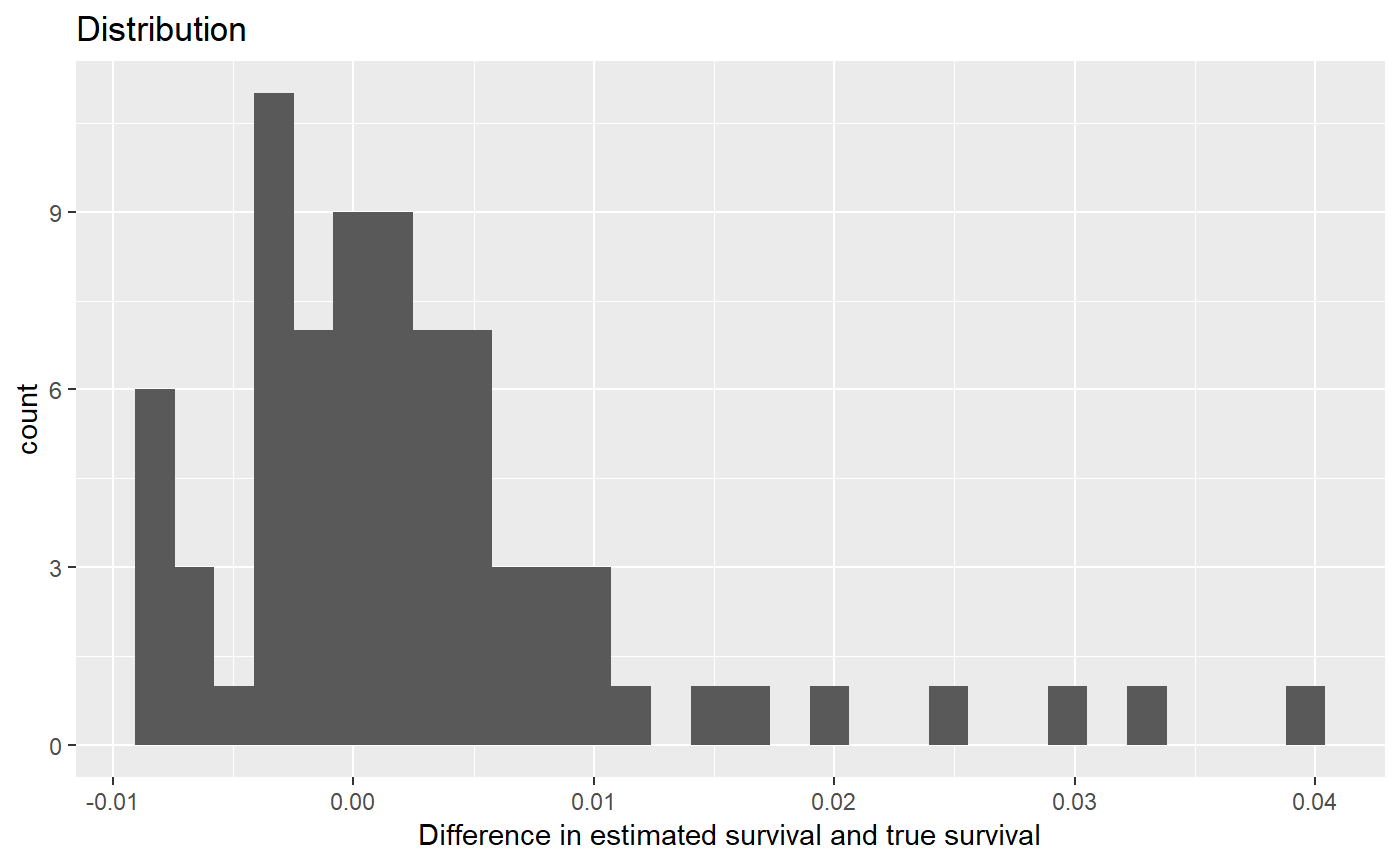
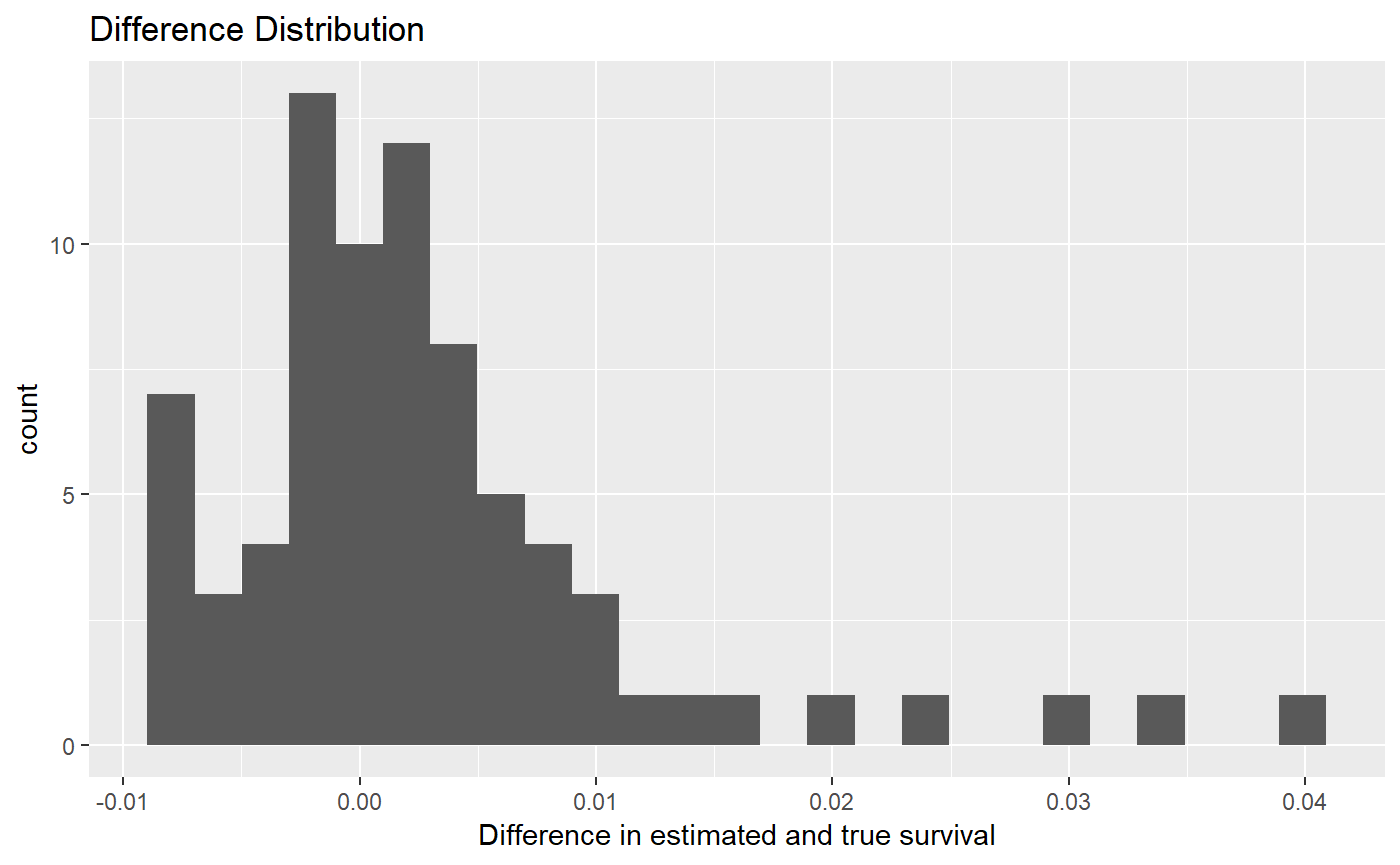
updated documentation

diff --git a/docs/articles/sm_predict.html b/docs/articles/sm_predict.html
@@ -192,12 +192,11 @@ sm_predict_ex1 =
 <a class="sourceLine" id="cb3-38" data-line-number="38"><span class="co"># plot histogram of differences between fitted and true</span></a>
 <a class="sourceLine" id="cb3-39" data-line-number="39">sm_predict_ex2 <span class="op">%&gt;%</span></a>
 <a class="sourceLine" id="cb3-40" data-line-number="40"><span class="st">  </span><span class="kw">ggplot</span>(<span class="kw">aes</span>(<span class="dt">x =</span> surv_diff)) <span class="op">+</span></a>
-<a class="sourceLine" id="cb3-41" data-line-number="41"><span class="st">  </span><span class="kw">geom_histogram</span>() <span class="op">+</span></a>
+<a class="sourceLine" id="cb3-41" data-line-number="41"><span class="st">  </span><span class="kw">geom_histogram</span>(<span class="dt">bins =</span> <span class="dv">25</span>) <span class="op">+</span></a>
 <a class="sourceLine" id="cb3-42" data-line-number="42"><span class="st">  </span><span class="kw">labs</span>(</a>
-<a class="sourceLine" id="cb3-43" data-line-number="43">    <span class="dt">title =</span> <span class="st">"Distribution"</span>,</a>
-<a class="sourceLine" id="cb3-44" data-line-number="44">    <span class="dt">x =</span> <span class="st">"Difference in estimated survival and true survival"</span></a>
-<a class="sourceLine" id="cb3-45" data-line-number="45">  )</a>
-<a class="sourceLine" id="cb3-46" data-line-number="46"><span class="co">#&gt; `stat_bin()` using `bins = 30`. Pick better value with `binwidth`.</span></a></code></pre></div>
+<a class="sourceLine" id="cb3-43" data-line-number="43">    <span class="dt">title =</span> <span class="st">"Difference Distribution"</span>,</a>
+<a class="sourceLine" id="cb3-44" data-line-number="44">    <span class="dt">x =</span> <span class="st">"Difference in estimated and true survival"</span></a>
+<a class="sourceLine" id="cb3-45" data-line-number="45">  )</a></code></pre></div>
 <p><img src="sm_predict_files/figure-html/remedy002-1.png" width="700"></p>
 <div class="sourceCode" id="cb4"><pre class="sourceCode r"><code class="sourceCode r"><a class="sourceLine" id="cb4-1" data-line-number="1"></a>
 <a class="sourceLine" id="cb4-2" data-line-number="2"><span class="co"># Plotting the true survival probabilities</span></a>
@@ -216,8 +215,8 @@ sm_predict_ex1 =
 <a class="sourceLine" id="cb4-15" data-line-number="15">      <span class="dt">yaxis =</span> <span class="kw">list</span>(<span class="dt">title =</span> <span class="st">"Age"</span>),</a>
 <a class="sourceLine" id="cb4-16" data-line-number="16">      <span class="dt">zaxis =</span> <span class="kw">list</span>(<span class="dt">title =</span> <span class="st">"Risk"</span>)</a>
 <a class="sourceLine" id="cb4-17" data-line-number="17">    ))</a></code></pre></div>
-<div id="htmlwidget-395d2e4431c01c6fdfb2" style="width:700px;height:432.632880098888px;" class="plotly html-widget"></div>
-<script type="application/json" data-for="htmlwidget-395d2e4431c01c6fdfb2">{"x":{"visdat":{"d806874336":["function () ","plotlyVisDat"]},"cur_data":"d806874336","attrs":{"d806874336":{"z":{},"x":[7,8,9,10,11,12,13],"y":[20,22,24,26,28,30,32,34,36,38,40],"alpha_stroke":1,"sizes":[10,100],"spans":[1,20],"type":"surface","showscale":false,"inherit":true}},"layout":{"margin":{"b":40,"l":60,"t":25,"r":10},"title":"True Risk of Death within 1 Year","scene":{"xaxis":{"title":"Marker"},"yaxis":{"title":"Age"},"zaxis":{"title":"Risk"}},"hovermode":"closest","showlegend":false},"source":"A","config":{"modeBarButtonsToAdd":[{"name":"Collaborate","icon":{"width":1000,"ascent":500,"descent":-50,"path":"M487 375c7-10 9-23 5-36l-79-259c-3-12-11-23-22-31-11-8-22-12-35-12l-263 0c-15 0-29 5-43 15-13 10-23 23-28 37-5 13-5 25-1 37 0 0 0 3 1 7 1 5 1 8 1 11 0 2 0 4-1 6 0 3-1 5-1 6 1 2 2 4 3 6 1 2 2 4 4 6 2 3 4 5 5 7 5 7 9 16 13 26 4 10 7 19 9 26 0 2 0 5 0 9-1 4-1 6 0 8 0 2 2 5 4 8 3 3 5 5 5 7 4 6 8 15 12 26 4 11 7 19 7 26 1 1 0 4 0 9-1 4-1 7 0 8 1 2 3 5 6 8 4 4 6 6 6 7 4 5 8 13 13 24 4 11 7 20 7 28 1 1 0 4 0 7-1 3-1 6-1 7 0 2 1 4 3 6 1 1 3 4 5 6 2 3 3 5 5 6 1 2 3 5 4 9 2 3 3 7 5 10 1 3 2 6 4 10 2 4 4 7 6 9 2 3 4 5 7 7 3 2 7 3 11 3 3 0 8 0 13-1l0-1c7 2 12 2 14 2l218 0c14 0 25-5 32-16 8-10 10-23 6-37l-79-259c-7-22-13-37-20-43-7-7-19-10-37-10l-248 0c-5 0-9-2-11-5-2-3-2-7 0-12 4-13 18-20 41-20l264 0c5 0 10 2 16 5 5 3 8 6 10 11l85 282c2 5 2 10 2 17 7-3 13-7 17-13z m-304 0c-1-3-1-5 0-7 1-1 3-2 6-2l174 0c2 0 4 1 7 2 2 2 4 4 5 7l6 18c0 3 0 5-1 7-1 1-3 2-6 2l-173 0c-3 0-5-1-8-2-2-2-4-4-4-7z m-24-73c-1-3-1-5 0-7 2-2 3-2 6-2l174 0c2 0 5 0 7 2 3 2 4 4 5 7l6 18c1 2 0 5-1 6-1 2-3 3-5 3l-174 0c-3 0-5-1-7-3-3-1-4-4-5-6z"},"click":"function(gd) { \n        // is this being viewed in RStudio?\n        if (location.search == '?viewer_pane=1') {\n          alert('To learn about plotly for collaboration, visit:\\n https://cpsievert.github.io/plotly_book/plot-ly-for-collaboration.html');\n        } else {\n          window.open('https://cpsievert.github.io/plotly_book/plot-ly-for-collaboration.html', '_blank');\n        }\n      }"}],"cloud":false},"data":[{"colorbar":{"title":"as.matrix(.)","ticklen":2},"colorscale":[["0","rgba(68,1,84,1)"],["0.122708244578632","rgba(71,44,122,1)"],["0.202220288265625","rgba(65,68,134,1)"],["0.260955157513266","rgba(59,85,139,1)"],["0.317267972361227","rgba(52,100,141,1)"],["0.360857736311767","rgba(47,110,142,1)"],["0.392536009911255","rgba(45,118,142,1)"],["0.453470549158017","rgba(38,132,142,1)"],["0.492227157933846","rgba(37,142,140,1)"],["0.525053240739471","rgba(35,150,138,1)"],["0.565809654125053","rgba(34,160,136,1)"],["0.613115157568129","rgba(45,171,129,1)"],["0.641994233209397","rgba(50,177,125,1)"],["0.669775951804946","rgba(55,184,120,1)"],["0.711597603275101","rgba(81,192,109,1)"],["0.743957286784377","rgba(95,198,100,1)"],["0.768156264302661","rgba(105,203,92,1)"],["0.794784033605035","rgba(122,208,84,1)"],["0.832513287720084","rgba(147,213,70,1)"],["0.850463814875461","rgba(158,216,63,1)"],["0.873420500902249","rgba(171,220,53,1)"],["0.900838896765042","rgba(188,223,43,1)"],["0.926623549056816","rgba(206,225,42,1)"],["0.958093363505766","rgba(226,228,40,1)"],["1","rgba(253,231,37,1)"]],"showscale":false,"z":[[0.692200627555346,0.681885934921354,0.671313497933194,0.660483648427271,0.649397334792741,0.638056166582019,0.626462459763781,0.614619282348499,0.602530500076141,0.590200821812905,0.577635844258916],[0.739934054783606,0.730894479250428,0.721603258472026,0.712058273835347,0.702257816815645,0.692200627555346,0.681885934921354,0.671313497933194,0.660483648427271,0.649397334792741,0.638056166582019],[0.781455584849563,0.773630602588598,0.765569481401734,0.757268574526507,0.748724476755579,0.739934054783606,0.730894479250428,0.721603258472026,0.712058273835347,0.702257816815645,0.692200627555346],[0.817179486939029,0.810473956302311,0.803553198966916,0.796412757162531,0.789048287846897,0.781455584849563,0.773630602588597,0.765569481401734,0.757268574526507,0.748724476755579,0.739934054783606],[0.847640316515773,0.841941399611202,0.836050594567173,0.829963150604252,0.823674342757472,0.817179486939029,0.810473956302311,0.803553198966916,0.796412757162531,0.789048287846897,0.781455584849563],[0.873423018493117,0.868612280319187,0.863633351331116,0.858481536342661,0.853152108052597,0.847640316515773,0.841941399611202,0.836050594567173,0.829963150604252,0.823674342757472,0.817179486939029],[0.895114927477049,0.89107638912607,0.88689238518758,0.882558492252263,0.878070220391308,0.873423018493117,0.868612280319187,0.863633351331116,0.858481536342661,0.853152108052597,0.847640316515773]],"x":[7,8,9,10,11,12,13],"y":[20,22,24,26,28,30,32,34,36,38,40],"type":"surface","frame":null}],"highlight":{"on":"plotly_click","persistent":false,"dynamic":false,"selectize":false,"opacityDim":0.2,"selected":{"opacity":1},"debounce":0},"base_url":"https://plot.ly"},"evals":["config.modeBarButtonsToAdd.0.click"],"jsHooks":[]}</script><div class="sourceCode" id="cb5"><pre class="sourceCode r"><code class="sourceCode r"><a class="sourceLine" id="cb5-1" data-line-number="1"></a>
+<div id="htmlwidget-eaa0ff01200824302841" style="width:700px;height:432.632880098888px;" class="plotly html-widget"></div>
+<script type="application/json" data-for="htmlwidget-eaa0ff01200824302841">{"x":{"visdat":{"3628203776d0":["function () ","plotlyVisDat"]},"cur_data":"3628203776d0","attrs":{"3628203776d0":{"z":{},"x":[7,8,9,10,11,12,13],"y":[20,22,24,26,28,30,32,34,36,38,40],"alpha_stroke":1,"sizes":[10,100],"spans":[1,20],"type":"surface","showscale":false,"inherit":true}},"layout":{"margin":{"b":40,"l":60,"t":25,"r":10},"title":"True Risk of Death within 1 Year","scene":{"xaxis":{"title":"Marker"},"yaxis":{"title":"Age"},"zaxis":{"title":"Risk"}},"hovermode":"closest","showlegend":false},"source":"A","config":{"modeBarButtonsToAdd":[{"name":"Collaborate","icon":{"width":1000,"ascent":500,"descent":-50,"path":"M487 375c7-10 9-23 5-36l-79-259c-3-12-11-23-22-31-11-8-22-12-35-12l-263 0c-15 0-29 5-43 15-13 10-23 23-28 37-5 13-5 25-1 37 0 0 0 3 1 7 1 5 1 8 1 11 0 2 0 4-1 6 0 3-1 5-1 6 1 2 2 4 3 6 1 2 2 4 4 6 2 3 4 5 5 7 5 7 9 16 13 26 4 10 7 19 9 26 0 2 0 5 0 9-1 4-1 6 0 8 0 2 2 5 4 8 3 3 5 5 5 7 4 6 8 15 12 26 4 11 7 19 7 26 1 1 0 4 0 9-1 4-1 7 0 8 1 2 3 5 6 8 4 4 6 6 6 7 4 5 8 13 13 24 4 11 7 20 7 28 1 1 0 4 0 7-1 3-1 6-1 7 0 2 1 4 3 6 1 1 3 4 5 6 2 3 3 5 5 6 1 2 3 5 4 9 2 3 3 7 5 10 1 3 2 6 4 10 2 4 4 7 6 9 2 3 4 5 7 7 3 2 7 3 11 3 3 0 8 0 13-1l0-1c7 2 12 2 14 2l218 0c14 0 25-5 32-16 8-10 10-23 6-37l-79-259c-7-22-13-37-20-43-7-7-19-10-37-10l-248 0c-5 0-9-2-11-5-2-3-2-7 0-12 4-13 18-20 41-20l264 0c5 0 10 2 16 5 5 3 8 6 10 11l85 282c2 5 2 10 2 17 7-3 13-7 17-13z m-304 0c-1-3-1-5 0-7 1-1 3-2 6-2l174 0c2 0 4 1 7 2 2 2 4 4 5 7l6 18c0 3 0 5-1 7-1 1-3 2-6 2l-173 0c-3 0-5-1-8-2-2-2-4-4-4-7z m-24-73c-1-3-1-5 0-7 2-2 3-2 6-2l174 0c2 0 5 0 7 2 3 2 4 4 5 7l6 18c1 2 0 5-1 6-1 2-3 3-5 3l-174 0c-3 0-5-1-7-3-3-1-4-4-5-6z"},"click":"function(gd) { \n        // is this being viewed in RStudio?\n        if (location.search == '?viewer_pane=1') {\n          alert('To learn about plotly for collaboration, visit:\\n https://cpsievert.github.io/plotly_book/plot-ly-for-collaboration.html');\n        } else {\n          window.open('https://cpsievert.github.io/plotly_book/plot-ly-for-collaboration.html', '_blank');\n        }\n      }"}],"cloud":false},"data":[{"colorbar":{"title":"as.matrix(.)","ticklen":2},"colorscale":[["0","rgba(68,1,84,1)"],["0.122708244578632","rgba(71,44,122,1)"],["0.202220288265625","rgba(65,68,134,1)"],["0.260955157513266","rgba(59,85,139,1)"],["0.317267972361227","rgba(52,100,141,1)"],["0.360857736311767","rgba(47,110,142,1)"],["0.392536009911255","rgba(45,118,142,1)"],["0.453470549158017","rgba(38,132,142,1)"],["0.492227157933846","rgba(37,142,140,1)"],["0.525053240739471","rgba(35,150,138,1)"],["0.565809654125053","rgba(34,160,136,1)"],["0.613115157568129","rgba(45,171,129,1)"],["0.641994233209397","rgba(50,177,125,1)"],["0.669775951804946","rgba(55,184,120,1)"],["0.711597603275101","rgba(81,192,109,1)"],["0.743957286784377","rgba(95,198,100,1)"],["0.768156264302661","rgba(105,203,92,1)"],["0.794784033605035","rgba(122,208,84,1)"],["0.832513287720084","rgba(147,213,70,1)"],["0.850463814875461","rgba(158,216,63,1)"],["0.873420500902249","rgba(171,220,53,1)"],["0.900838896765042","rgba(188,223,43,1)"],["0.926623549056816","rgba(206,225,42,1)"],["0.958093363505766","rgba(226,228,40,1)"],["1","rgba(253,231,37,1)"]],"showscale":false,"z":[[0.692200627555346,0.681885934921354,0.671313497933194,0.660483648427271,0.649397334792741,0.638056166582019,0.626462459763781,0.614619282348499,0.602530500076141,0.590200821812905,0.577635844258916],[0.739934054783606,0.730894479250428,0.721603258472026,0.712058273835347,0.702257816815645,0.692200627555346,0.681885934921354,0.671313497933194,0.660483648427271,0.649397334792741,0.638056166582019],[0.781455584849563,0.773630602588598,0.765569481401734,0.757268574526507,0.748724476755579,0.739934054783606,0.730894479250428,0.721603258472026,0.712058273835347,0.702257816815645,0.692200627555346],[0.817179486939029,0.810473956302311,0.803553198966916,0.796412757162531,0.789048287846897,0.781455584849563,0.773630602588597,0.765569481401734,0.757268574526507,0.748724476755579,0.739934054783606],[0.847640316515773,0.841941399611202,0.836050594567173,0.829963150604252,0.823674342757472,0.817179486939029,0.810473956302311,0.803553198966916,0.796412757162531,0.789048287846897,0.781455584849563],[0.873423018493117,0.868612280319187,0.863633351331116,0.858481536342661,0.853152108052597,0.847640316515773,0.841941399611202,0.836050594567173,0.829963150604252,0.823674342757472,0.817179486939029],[0.895114927477049,0.89107638912607,0.88689238518758,0.882558492252263,0.878070220391308,0.873423018493117,0.868612280319187,0.863633351331116,0.858481536342661,0.853152108052597,0.847640316515773]],"x":[7,8,9,10,11,12,13],"y":[20,22,24,26,28,30,32,34,36,38,40],"type":"surface","frame":null}],"highlight":{"on":"plotly_click","persistent":false,"dynamic":false,"selectize":false,"opacityDim":0.2,"selected":{"opacity":1},"debounce":0},"base_url":"https://plot.ly"},"evals":["config.modeBarButtonsToAdd.0.click"],"jsHooks":[]}</script><div class="sourceCode" id="cb5"><pre class="sourceCode r"><code class="sourceCode r"><a class="sourceLine" id="cb5-1" data-line-number="1"></a>
 <a class="sourceLine" id="cb5-2" data-line-number="2"><span class="co"># Plotting the estimated survival probabilities from sm_predict()</span></a>
 <a class="sourceLine" id="cb5-3" data-line-number="3">sm_predict_ex2 <span class="op">%&gt;%</span></a>
 <a class="sourceLine" id="cb5-4" data-line-number="4"><span class="st">  </span><span class="kw">select</span>(marker, age, .fitted) <span class="op">%&gt;%</span></a>
@@ -234,8 +233,8 @@ sm_predict_ex1 =
 <a class="sourceLine" id="cb5-15" data-line-number="15">      <span class="dt">yaxis =</span> <span class="kw">list</span>(<span class="dt">title =</span> <span class="st">"Age"</span>),</a>
 <a class="sourceLine" id="cb5-16" data-line-number="16">      <span class="dt">zaxis =</span> <span class="kw">list</span>(<span class="dt">title =</span> <span class="st">"Risk"</span>)</a>
 <a class="sourceLine" id="cb5-17" data-line-number="17">    ))</a></code></pre></div>
-<div id="htmlwidget-646d2889f494ae99e9c6" style="width:700px;height:432.632880098888px;" class="plotly html-widget"></div>
-<script type="application/json" data-for="htmlwidget-646d2889f494ae99e9c6">{"x":{"visdat":{"d8070e1fb9":["function () ","plotlyVisDat"]},"cur_data":"d8070e1fb9","attrs":{"d8070e1fb9":{"z":{},"x":[7,8,9,10,11,12,13],"y":[20,22,24,26,28,30,32,34,36,38,40],"alpha_stroke":1,"sizes":[10,100],"spans":[1,20],"type":"surface","showscale":false,"inherit":true}},"layout":{"margin":{"b":40,"l":60,"t":25,"r":10},"title":"Estimated Risk of Death within 1 Year","scene":{"xaxis":{"title":"Marker"},"yaxis":{"title":"Age"},"zaxis":{"title":"Risk"}},"hovermode":"closest","showlegend":false},"source":"A","config":{"modeBarButtonsToAdd":[{"name":"Collaborate","icon":{"width":1000,"ascent":500,"descent":-50,"path":"M487 375c7-10 9-23 5-36l-79-259c-3-12-11-23-22-31-11-8-22-12-35-12l-263 0c-15 0-29 5-43 15-13 10-23 23-28 37-5 13-5 25-1 37 0 0 0 3 1 7 1 5 1 8 1 11 0 2 0 4-1 6 0 3-1 5-1 6 1 2 2 4 3 6 1 2 2 4 4 6 2 3 4 5 5 7 5 7 9 16 13 26 4 10 7 19 9 26 0 2 0 5 0 9-1 4-1 6 0 8 0 2 2 5 4 8 3 3 5 5 5 7 4 6 8 15 12 26 4 11 7 19 7 26 1 1 0 4 0 9-1 4-1 7 0 8 1 2 3 5 6 8 4 4 6 6 6 7 4 5 8 13 13 24 4 11 7 20 7 28 1 1 0 4 0 7-1 3-1 6-1 7 0 2 1 4 3 6 1 1 3 4 5 6 2 3 3 5 5 6 1 2 3 5 4 9 2 3 3 7 5 10 1 3 2 6 4 10 2 4 4 7 6 9 2 3 4 5 7 7 3 2 7 3 11 3 3 0 8 0 13-1l0-1c7 2 12 2 14 2l218 0c14 0 25-5 32-16 8-10 10-23 6-37l-79-259c-7-22-13-37-20-43-7-7-19-10-37-10l-248 0c-5 0-9-2-11-5-2-3-2-7 0-12 4-13 18-20 41-20l264 0c5 0 10 2 16 5 5 3 8 6 10 11l85 282c2 5 2 10 2 17 7-3 13-7 17-13z m-304 0c-1-3-1-5 0-7 1-1 3-2 6-2l174 0c2 0 4 1 7 2 2 2 4 4 5 7l6 18c0 3 0 5-1 7-1 1-3 2-6 2l-173 0c-3 0-5-1-8-2-2-2-4-4-4-7z m-24-73c-1-3-1-5 0-7 2-2 3-2 6-2l174 0c2 0 5 0 7 2 3 2 4 4 5 7l6 18c1 2 0 5-1 6-1 2-3 3-5 3l-174 0c-3 0-5-1-7-3-3-1-4-4-5-6z"},"click":"function(gd) { \n        // is this being viewed in RStudio?\n        if (location.search == '?viewer_pane=1') {\n          alert('To learn about plotly for collaboration, visit:\\n https://cpsievert.github.io/plotly_book/plot-ly-for-collaboration.html');\n        } else {\n          window.open('https://cpsievert.github.io/plotly_book/plot-ly-for-collaboration.html', '_blank');\n        }\n      }"}],"cloud":false},"data":[{"colorbar":{"title":"as.matrix(.)","ticklen":2},"colorscale":[["0","rgba(68,1,84,1)"],["0.176216713040743","rgba(67,61,130,1)"],["0.243091428247703","rgba(61,80,138,1)"],["0.30996085044246","rgba(53,98,141,1)"],["0.373492355279648","rgba(47,113,142,1)"],["0.40839181340997","rgba(43,122,142,1)"],["0.437157202798933","rgba(39,128,142,1)"],["0.486685453182022","rgba(37,141,140,1)"],["0.532912662111298","rgba(34,152,138,1)"],["0.568276752990954","rgba(35,161,135,1)"],["0.608041398561891","rgba(44,170,130,1)"],["0.640206880205079","rgba(49,177,125,1)"],["0.685187070717241","rgba(66,187,116,1)"],["0.711281597941864","rgba(80,192,109,1)"],["0.7388010236899","rgba(93,197,101,1)"],["0.770453035721341","rgba(106,204,91,1)"],["0.786849646968535","rgba(116,206,86,1)"],["0.806425163417948","rgba(130,209,80,1)"],["0.824403118617491","rgba(142,212,73,1)"],["0.848865992442123","rgba(157,216,64,1)"],["0.860227986390719","rgba(164,218,59,1)"],["0.884825843187641","rgba(178,221,46,1)"],["0.909363559808497","rgba(194,224,43,1)"],["0.92963012883743","rgba(208,226,42,1)"],["1","rgba(253,231,37,1)"]],"showscale":false,"z":[[0.691858169323692,0.680367840557495,0.670778909319993,0.658889988273919,0.643019509982294,0.630496437281888,0.618918787597061,0.602270020368487,0.581986196815007,0.56053031943489,0.53842120303552],[0.735312455863696,0.723459980864412,0.71522161782378,0.708347065291778,0.69779030282799,0.688690816293989,0.676481717536726,0.661121895294744,0.643949754177021,0.62531492676315,0.604624256381888],[0.780010783266469,0.77192963384491,0.766326258679534,0.760120952583836,0.752062940197133,0.741502101695121,0.731391836098287,0.718969209373466,0.704706432931899,0.692550809159131,0.677784019926521],[0.824835194861385,0.818573849707245,0.811523245147282,0.80490480084459,0.797688491411762,0.788835942376652,0.780153778551712,0.771233798163186,0.760020539860617,0.749638357859194,0.741543576314333],[0.847840140596366,0.841249598107099,0.833809372407997,0.828530371317352,0.825492557015436,0.820396407376697,0.813435313349276,0.80587377605528,0.797904597641124,0.791832124175125,0.788211543788229],[0.870712119940202,0.863808102294075,0.85845483526933,0.854833898809238,0.850619182000506,0.848091196592364,0.84458540700654,0.838963850026067,0.833185739648868,0.827010556336268,0.820017995463216],[0.902979075517312,0.892326129043265,0.884709716704969,0.877906880635837,0.874416706817625,0.87119161529246,0.868386303254921,0.863528024620499,0.857018917067075,0.848148714103556,0.837767193308997]],"x":[7,8,9,10,11,12,13],"y":[20,22,24,26,28,30,32,34,36,38,40],"type":"surface","frame":null}],"highlight":{"on":"plotly_click","persistent":false,"dynamic":false,"selectize":false,"opacityDim":0.2,"selected":{"opacity":1},"debounce":0},"base_url":"https://plot.ly"},"evals":["config.modeBarButtonsToAdd.0.click"],"jsHooks":[]}</script>
+<div id="htmlwidget-ba07fe58c04948077a70" style="width:700px;height:432.632880098888px;" class="plotly html-widget"></div>
+<script type="application/json" data-for="htmlwidget-ba07fe58c04948077a70">{"x":{"visdat":{"3628152b406b":["function () ","plotlyVisDat"]},"cur_data":"3628152b406b","attrs":{"3628152b406b":{"z":{},"x":[7,8,9,10,11,12,13],"y":[20,22,24,26,28,30,32,34,36,38,40],"alpha_stroke":1,"sizes":[10,100],"spans":[1,20],"type":"surface","showscale":false,"inherit":true}},"layout":{"margin":{"b":40,"l":60,"t":25,"r":10},"title":"Estimated Risk of Death within 1 Year","scene":{"xaxis":{"title":"Marker"},"yaxis":{"title":"Age"},"zaxis":{"title":"Risk"}},"hovermode":"closest","showlegend":false},"source":"A","config":{"modeBarButtonsToAdd":[{"name":"Collaborate","icon":{"width":1000,"ascent":500,"descent":-50,"path":"M487 375c7-10 9-23 5-36l-79-259c-3-12-11-23-22-31-11-8-22-12-35-12l-263 0c-15 0-29 5-43 15-13 10-23 23-28 37-5 13-5 25-1 37 0 0 0 3 1 7 1 5 1 8 1 11 0 2 0 4-1 6 0 3-1 5-1 6 1 2 2 4 3 6 1 2 2 4 4 6 2 3 4 5 5 7 5 7 9 16 13 26 4 10 7 19 9 26 0 2 0 5 0 9-1 4-1 6 0 8 0 2 2 5 4 8 3 3 5 5 5 7 4 6 8 15 12 26 4 11 7 19 7 26 1 1 0 4 0 9-1 4-1 7 0 8 1 2 3 5 6 8 4 4 6 6 6 7 4 5 8 13 13 24 4 11 7 20 7 28 1 1 0 4 0 7-1 3-1 6-1 7 0 2 1 4 3 6 1 1 3 4 5 6 2 3 3 5 5 6 1 2 3 5 4 9 2 3 3 7 5 10 1 3 2 6 4 10 2 4 4 7 6 9 2 3 4 5 7 7 3 2 7 3 11 3 3 0 8 0 13-1l0-1c7 2 12 2 14 2l218 0c14 0 25-5 32-16 8-10 10-23 6-37l-79-259c-7-22-13-37-20-43-7-7-19-10-37-10l-248 0c-5 0-9-2-11-5-2-3-2-7 0-12 4-13 18-20 41-20l264 0c5 0 10 2 16 5 5 3 8 6 10 11l85 282c2 5 2 10 2 17 7-3 13-7 17-13z m-304 0c-1-3-1-5 0-7 1-1 3-2 6-2l174 0c2 0 4 1 7 2 2 2 4 4 5 7l6 18c0 3 0 5-1 7-1 1-3 2-6 2l-173 0c-3 0-5-1-8-2-2-2-4-4-4-7z m-24-73c-1-3-1-5 0-7 2-2 3-2 6-2l174 0c2 0 5 0 7 2 3 2 4 4 5 7l6 18c1 2 0 5-1 6-1 2-3 3-5 3l-174 0c-3 0-5-1-7-3-3-1-4-4-5-6z"},"click":"function(gd) { \n        // is this being viewed in RStudio?\n        if (location.search == '?viewer_pane=1') {\n          alert('To learn about plotly for collaboration, visit:\\n https://cpsievert.github.io/plotly_book/plot-ly-for-collaboration.html');\n        } else {\n          window.open('https://cpsievert.github.io/plotly_book/plot-ly-for-collaboration.html', '_blank');\n        }\n      }"}],"cloud":false},"data":[{"colorbar":{"title":"as.matrix(.)","ticklen":2},"colorscale":[["0","rgba(68,1,84,1)"],["0.176216713040743","rgba(67,61,130,1)"],["0.243091428247703","rgba(61,80,138,1)"],["0.30996085044246","rgba(53,98,141,1)"],["0.373492355279648","rgba(47,113,142,1)"],["0.40839181340997","rgba(43,122,142,1)"],["0.437157202798933","rgba(39,128,142,1)"],["0.486685453182022","rgba(37,141,140,1)"],["0.532912662111298","rgba(34,152,138,1)"],["0.568276752990954","rgba(35,161,135,1)"],["0.608041398561891","rgba(44,170,130,1)"],["0.640206880205079","rgba(49,177,125,1)"],["0.685187070717241","rgba(66,187,116,1)"],["0.711281597941864","rgba(80,192,109,1)"],["0.7388010236899","rgba(93,197,101,1)"],["0.770453035721341","rgba(106,204,91,1)"],["0.786849646968535","rgba(116,206,86,1)"],["0.806425163417948","rgba(130,209,80,1)"],["0.824403118617491","rgba(142,212,73,1)"],["0.848865992442123","rgba(157,216,64,1)"],["0.860227986390719","rgba(164,218,59,1)"],["0.884825843187641","rgba(178,221,46,1)"],["0.909363559808497","rgba(194,224,43,1)"],["0.92963012883743","rgba(208,226,42,1)"],["1","rgba(253,231,37,1)"]],"showscale":false,"z":[[0.691858169323692,0.680367840557495,0.670778909319993,0.658889988273919,0.643019509982294,0.630496437281888,0.618918787597061,0.602270020368487,0.581986196815007,0.56053031943489,0.53842120303552],[0.735312455863696,0.723459980864412,0.71522161782378,0.708347065291778,0.69779030282799,0.688690816293989,0.676481717536726,0.661121895294744,0.643949754177021,0.62531492676315,0.604624256381888],[0.780010783266469,0.77192963384491,0.766326258679534,0.760120952583836,0.752062940197133,0.741502101695121,0.731391836098287,0.718969209373466,0.704706432931899,0.692550809159131,0.677784019926521],[0.824835194861385,0.818573849707245,0.811523245147282,0.80490480084459,0.797688491411762,0.788835942376652,0.780153778551712,0.771233798163186,0.760020539860617,0.749638357859194,0.741543576314333],[0.847840140596366,0.841249598107099,0.833809372407997,0.828530371317352,0.825492557015436,0.820396407376697,0.813435313349276,0.80587377605528,0.797904597641124,0.791832124175125,0.788211543788229],[0.870712119940202,0.863808102294075,0.85845483526933,0.854833898809238,0.850619182000506,0.848091196592364,0.84458540700654,0.838963850026067,0.833185739648868,0.827010556336268,0.820017995463216],[0.902979075517312,0.892326129043265,0.884709716704969,0.877906880635837,0.874416706817625,0.87119161529246,0.868386303254921,0.863528024620499,0.857018917067075,0.848148714103556,0.837767193308997]],"x":[7,8,9,10,11,12,13],"y":[20,22,24,26,28,30,32,34,36,38,40],"type":"surface","frame":null}],"highlight":{"on":"plotly_click","persistent":false,"dynamic":false,"selectize":false,"opacityDim":0.2,"selected":{"opacity":1},"debounce":0},"base_url":"https://plot.ly"},"evals":["config.modeBarButtonsToAdd.0.click"],"jsHooks":[]}</script>
 </div>
   </div>
 

diff --git a/docs/index.html b/docs/index.html
@@ -10,7 +10,10 @@
 <script src="https://maxcdn.bootstrapcdn.com/bootstrap/3.3.7/js/bootstrap.min.js" integrity="sha384-Tc5IQib027qvyjSMfHjOMaLkfuWVxZxUPnCJA7l2mCWNIpG9mGCD8wGNIcPD7Txa" crossorigin="anonymous"></script><!-- Font Awesome icons --><link href="https://maxcdn.bootstrapcdn.com/font-awesome/4.6.3/css/font-awesome.min.css" rel="stylesheet" integrity="sha384-T8Gy5hrqNKT+hzMclPo118YTQO6cYprQmhrYwIiQ/3axmI1hQomh7Ud2hPOy8SP1" crossorigin="anonymous">
 <!-- clipboard.js --><script src="https://cdnjs.cloudflare.com/ajax/libs/clipboard.js/1.7.1/clipboard.min.js" integrity="sha384-cV+rhyOuRHc9Ub/91rihWcGmMmCXDeksTtCihMupQHSsi8GIIRDG0ThDc3HGQFJ3" crossorigin="anonymous"></script><!-- sticky kit --><script src="https://cdnjs.cloudflare.com/ajax/libs/sticky-kit/1.1.3/sticky-kit.min.js" integrity="sha256-c4Rlo1ZozqTPE2RLuvbusY3+SU1pQaJC0TjuhygMipw=" crossorigin="anonymous"></script><!-- pkgdown --><link href="pkgdown.css" rel="stylesheet">
 <script src="pkgdown.js"></script><meta property="og:title" content="Kernel smoothing for time to event data">
-<meta property="og:description" content="What the package does (one paragraph).">
+<meta property="og:description" content="The sjosmooth package was built to calculate
+    kernel-weighted estimates from time-to-event endpoints.  Importantly,
+    the package allows for 1 or more weighting variables, allowing for the
+    estimation of an n-dimensional hyperplane.">
 <meta property="og:image" content="http://www.danieldsjoberg.com/sjosmooth/logo.png">
 <meta name="twitter:card" content="summary">
 <!-- mathjax --><script src="https://mathjax.rstudio.com/latest/MathJax.js?config=TeX-AMS-MML_HTMLorMML"></script><!--[if lt IE 9]>
@@ -112,7 +115,7 @@
     <div class="links">
 <h2>Links</h2>
 <ul class="list-unstyled">
-<li>Report a bug at <br><a href="NA">NA</a>
+<li>Report a bug at <br><a href="https://github.com/ddsjoberg/sjosmooth/issues">https://github.com/ddsjoberg/sjosmooth/issues</a>
 </li>
 </ul>
 </div>
